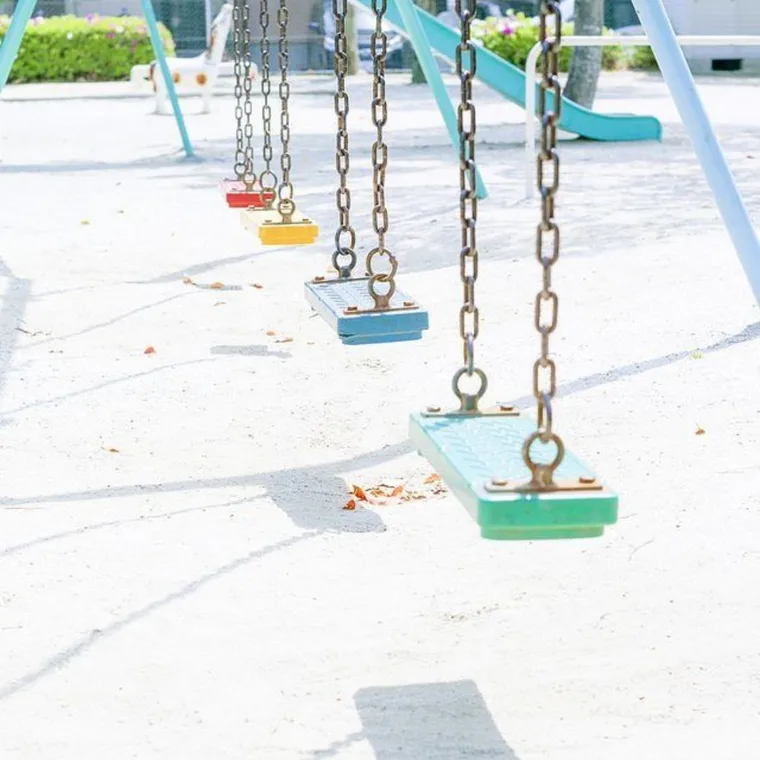
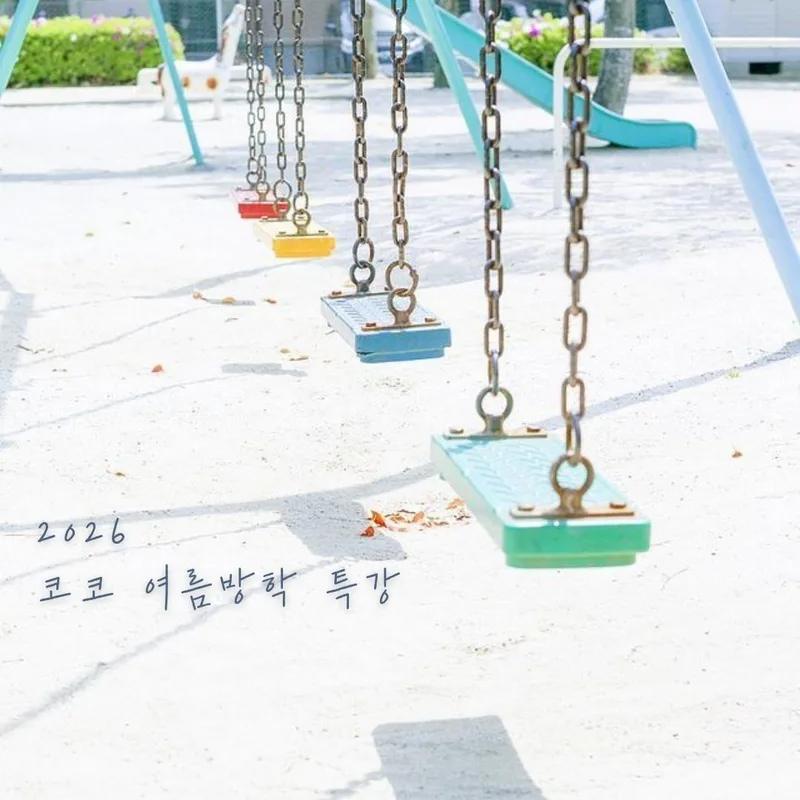
Update popup image and enhance button with glossy effect and reveal animation
Refactor popup modal component to include new image, update CTA button text and styling, implement hover and click animations for the button, and ensure synchronous link opening.

Replit-Commit-Author: Agent
Replit-Commit-Session-Id: 4323cd26-6460-46da-9ed0-393ab2f72c15
Replit-Commit-Checkpoint-Type: full_checkpoint
Replit-Commit-Event-Id: 2a832959-6d02-4e13-8423-41c780958cb8
Replit-Commit-Screenshot-Url: https://storage.googleapis.com/screenshot-production-us-central1/d2b4c259-ef34-459e-91af-8c058689a36c/4323cd26-6460-46da-9ed0-393ab2f72c15/2QTqh57
Replit-Helium-Checkpoint-Created: true

diff --git a/client/src/components/popup-modal.tsx b/client/src/components/popup-modal.tsx
@@ -40,6 +40,7 @@ export default function PopupModal({
   const [isVisible, setIsVisible] = useState(false);
   const [isAnimating, setIsAnimating] = useState(false);
   const [mediaDimensions, setMediaDimensions] = useState<{width: number, height: number} | null>(null);
+  const [ctaExpanded, setCtaExpanded] = useState(false);
   const videoRef = useRef<HTMLVideoElement>(null);
 
   useEffect(() => {
@@ -71,6 +72,7 @@ export default function PopupModal({
 
   const handleClose = () => {
     setIsAnimating(false);
+    setCtaExpanded(false);
     setTimeout(() => {
       setIsVisible(false);
     }, 300);
@@ -78,6 +80,7 @@ export default function PopupModal({
 
   const handleDontShowToday = () => {
     setIsAnimating(false);
+    setCtaExpanded(false);
     setTimeout(() => {
       setIsVisible(false);
       // 오늘 하루 동안 이 팝업을 다시 보지 않도록 설정
@@ -90,6 +93,27 @@ export default function PopupModal({
     if (e.target === e.currentTarget) {
       handleClose();
     }
+  };
+
+  // CTA 버튼: '{...}' 안의 글자는 클릭 시 펼쳐지며 나타나는 부분
+  const ctaSegments = (() => {
+    if (!ctaLabel) return null;
+    const m = ctaLabel.match(/^(.*)\{(.+?)\}(.*)$/);
+    if (m) return { pre: m[1], reveal: m[2], post: m[3] };
+    return { pre: ctaLabel, reveal: '', post: '' };
+  })();
+  const ctaAria = ctaLabel ? ctaLabel.replace('{', ' ').replace('}', '') : undefined;
+
+  const openLink = () => {
+    if (linkUrl) {
+      window.open(linkUrl, '_blank', 'noopener,noreferrer');
+    }
+  };
+
+  const handleCtaClick = (e: React.MouseEvent) => {
+    e.stopPropagation();
+    setCtaExpanded(true);
+    openLink();
   };
 
   const handleImageLoad = (e: React.SyntheticEvent<HTMLImageElement>) => {
@@ -258,54 +282,90 @@ export default function PopupModal({
               }}
             />
           ) : linkUrl ? (
-            <a 
-              href={linkUrl} 
-              target={linkUrl.startsWith('http') ? '_blank' : '_self'}
-              rel={linkUrl.startsWith('http') ? 'noopener noreferrer' : undefined}
-              aria-label={ctaLabel ? `${title} - ${ctaLabel}` : title}
-              className="group block cursor-pointer relative"
-            >
-              <img 
-                src={imageUrl || ''}
-                alt={title}
-                className="w-full h-auto object-contain rounded-2xl transition-transform duration-500 ease-out group-hover:scale-[1.04]"
-                style={{ 
-                  filter: 'brightness(1) contrast(1)', 
-                  imageRendering: 'auto',
-                  opacity: 1,
-                  colorAdjust: 'exact',
-                  WebkitColorAdjust: 'exact'
-                } as React.CSSProperties}
-                loading="eager"
-                decoding="async"
-                onLoad={(e) => {
-                  console.log(`Image loaded for ${id}:`, imageUrl);
-                  handleImageLoad(e);
-                }}
-                onError={(e) => {
-                  console.error(`Image failed to load for ${id}:`, imageUrl);
-                }}
-              />
-              {ctaLabel && (
-                <>
-                  <div
-                    className="absolute inset-x-0 bottom-0 h-1/3 pointer-events-none rounded-b-2xl"
-                    style={{ background: 'linear-gradient(180deg, rgba(0,0,0,0) 0%, rgba(0,0,0,0.55) 100%)' }}
-                  />
-                  <div className="absolute inset-x-0 bottom-6 flex justify-center px-4 pointer-events-none">
-                    <span
-                      className="cta-pulse inline-flex items-center gap-2 rounded-full px-6 py-3 text-sm sm:text-base font-bold"
-                      style={{ background: '#6EC9A3', color: '#0F2E22' }}
-                    >
-                      {ctaLabel}
-                      <span className="cta-arrow inline-flex">
+            ctaSegments ? (
+              <div className="group relative block cursor-pointer" onClick={openLink}>
+                <img 
+                  src={imageUrl || ''}
+                  alt={title}
+                  className="w-full h-auto object-contain rounded-2xl transition-transform duration-500 ease-out group-hover:scale-[1.04]"
+                  style={{ 
+                    filter: 'brightness(1) contrast(1)', 
+                    imageRendering: 'auto',
+                    opacity: 1,
+                    colorAdjust: 'exact',
+                    WebkitColorAdjust: 'exact'
+                  } as React.CSSProperties}
+                  loading="eager"
+                  decoding="async"
+                  onLoad={(e) => {
+                    console.log(`Image loaded for ${id}:`, imageUrl);
+                    handleImageLoad(e);
+                  }}
+                  onError={(e) => {
+                    console.error(`Image failed to load for ${id}:`, imageUrl);
+                  }}
+                />
+                <div className="absolute inset-x-0 bottom-6 flex justify-center px-4">
+                  <button
+                    type="button"
+                    onClick={handleCtaClick}
+                    aria-label={ctaAria}
+                    className="cta-glossy inline-flex items-center rounded-full px-6 py-3 text-sm sm:text-base font-bold"
+                  >
+                    <span className="cta-sheen" aria-hidden="true" />
+                    <span className="relative z-10 inline-flex items-center whitespace-nowrap">
+                      <span>{ctaSegments.pre}</span>
+                      {ctaSegments.reveal && (
+                        <span
+                          className="inline-block overflow-hidden transition-all duration-500 ease-out"
+                          style={{
+                            maxWidth: ctaExpanded ? '80px' : '0px',
+                            opacity: ctaExpanded ? 1 : 0,
+                            marginLeft: ctaExpanded ? '0.28em' : '0px',
+                          }}
+                        >
+                          {ctaSegments.reveal}
+                        </span>
+                      )}
+                      <span>{ctaSegments.post}</span>
+                      <span className="cta-arrow inline-flex ml-2">
                         <ArrowRight className="h-4 w-4 sm:h-5 sm:w-5" strokeWidth={2.5} />
                       </span>
                     </span>
-                  </div>
-                </>
-              )}
-            </a>
+                  </button>
+                </div>
+              </div>
+            ) : (
+              <a 
+                href={linkUrl} 
+                target={linkUrl.startsWith('http') ? '_blank' : '_self'}
+                rel={linkUrl.startsWith('http') ? 'noopener noreferrer' : undefined}
+                aria-label={title}
+                className="group block cursor-pointer relative"
+              >
+                <img 
+                  src={imageUrl || ''}
+                  alt={title}
+                  className="w-full h-auto object-contain rounded-2xl transition-transform duration-500 ease-out group-hover:scale-[1.04]"
+                  style={{ 
+                    filter: 'brightness(1) contrast(1)', 
+                    imageRendering: 'auto',
+                    opacity: 1,
+                    colorAdjust: 'exact',
+                    WebkitColorAdjust: 'exact'
+                  } as React.CSSProperties}
+                  loading="eager"
+                  decoding="async"
+                  onLoad={(e) => {
+                    console.log(`Image loaded for ${id}:`, imageUrl);
+                    handleImageLoad(e);
+                  }}
+                  onError={(e) => {
+                    console.error(`Image failed to load for ${id}:`, imageUrl);
+                  }}
+                />
+              </a>
+            )
           ) : (
             <img 
               src={imageUrl || ''}
@@ -347,7 +407,7 @@ export function PopupManager() {
       imageUrl: summerPopupImage,
       type: 'image' as const,
       linkUrl: 'https://cocodio-2026summer.netlify.app/',
-      ctaLabel: '여름특강 신청하기',
+      ctaLabel: '코코의 여름{특강}, 둘러보기',
       delay: 1.5,
       isLarge: true,
       position: 'center' as const,

diff --git a/client/src/index.css b/client/src/index.css
@@ -802,17 +802,43 @@
   .shadow-el3       { box-shadow: var(--el-3); }
 }
 
-/* ── 팝업 CTA 버튼 애니메이션 (클릭 유도) ─────────────── */
+/* ── 팝업 CTA 글로시 버튼 (클릭 유도) ─────────────────── */
+.cta-glossy {
+  position: relative;
+  overflow: hidden;
+  color: #1A1A1A;
+  background: linear-gradient(135deg, rgba(255,255,255,0.60), rgba(255,255,255,0.32));
+  border: 1px solid rgba(255,255,255,0.72);
+  backdrop-filter: blur(12px) saturate(180%);
+  -webkit-backdrop-filter: blur(12px) saturate(180%);
+  box-shadow: 0 12px 30px -10px rgba(0,0,0,0.28), inset 0 1px 0 rgba(255,255,255,0.85);
+  transition: transform 0.35s ease, box-shadow 0.35s ease;
+}
+.cta-glossy:hover {
+  transform: translateY(-2px);
+  box-shadow: 0 16px 38px -10px rgba(0,0,0,0.34), inset 0 1px 0 rgba(255,255,255,0.92);
+}
+.cta-glossy:active { transform: translateY(0) scale(0.98); }
+.cta-sheen {
+  position: absolute;
+  top: 0;
+  left: 0;
+  width: 40%;
+  height: 100%;
+  background: linear-gradient(105deg, rgba(255,255,255,0) 0%, rgba(255,255,255,0.75) 50%, rgba(255,255,255,0) 100%);
+  transform: translateX(-160%) skewX(-18deg);
+  animation: ctaSheen 2.8s ease-in-out infinite;
+  pointer-events: none;
+}
+@keyframes ctaSheen {
+  0%        { transform: translateX(-160%) skewX(-18deg); }
+  55%, 100% { transform: translateX(320%) skewX(-18deg); }
+}
 @keyframes ctaArrowNudge {
   0%, 100% { transform: translateX(0); }
   50%      { transform: translateX(5px); }
 }
-@keyframes ctaPulse {
-  0%, 100% { transform: scale(1);    box-shadow: 0 8px 22px -8px rgba(110,201,163,0.55); }
-  50%      { transform: scale(1.05); box-shadow: 0 14px 32px -6px rgba(110,201,163,0.85); }
-}
 .cta-arrow { animation: ctaArrowNudge 1.2s ease-in-out infinite; }
-.cta-pulse { animation: ctaPulse 1.9s ease-in-out infinite; }
 @media (prefers-reduced-motion: reduce) {
-  .cta-arrow, .cta-pulse { animation: none; }
+  .cta-arrow, .cta-sheen { animation: none; }
 }

diff --git a/.agents/memory/popup-system.md b/.agents/memory/popup-system.md
@@ -1,0 +1,10 @@
+---
+name: Popup system
+description: How the marketing-site popup modal works and how to verify it
+---
+- Popups are defined as an array in `PopupManager` (client/src/components/popup-modal.tsx). Each entry: id, title, imageUrl (import), linkUrl, ctaLabel, delay (seconds), isLarge, position.
+- `ctaLabel` supports a `{word}` token (e.g. `코코의 여름{특강}, 둘러보기`): the braced word is hidden by default and revealed via a maxWidth/opacity transition when the CTA button is clicked. Parsed with `/^(.*)\{(.+?)\}(.*)$/`.
+- **CTA click must open links synchronously** (`window.open` directly in the click handler) — deferring it inside setTimeout gets popup-blocked because it's outside the user-activation window.
+- **Do not nest a `<button>` inside the image `<a>`** (invalid interactive nesting). When a CTA button is needed, render the image inside a clickable `<div onClick>` instead and keep the button as a sibling.
+
+**Verifying popups visually:** app_preview screenshots almost always MISS delayed popups — a fresh navigation resets the `delay` timer, so the capture lands before the popup appears. Rely on the browser console logs (`Showing popup <id>` + `Image loaded for <id>`) as proof of correct behavior instead of looping screenshots.

diff --git a/.agents/memory/MEMORY.md b/.agents/memory/MEMORY.md
@@ -1,1 +1,2 @@
 - [Asset optimization](asset-optimization.md) — @assets imports get bundled+served; optimize any new heavy image/video before importing (magick/ffmpeg available, sharp/bc not).
+- [Popup system](popup-system.md) — PopupManager array drives time-delayed popups; ctaLabel `{...}` token = click-to-reveal word; screenshots miss delayed popups (fresh nav resets timer) so trust console logs.
